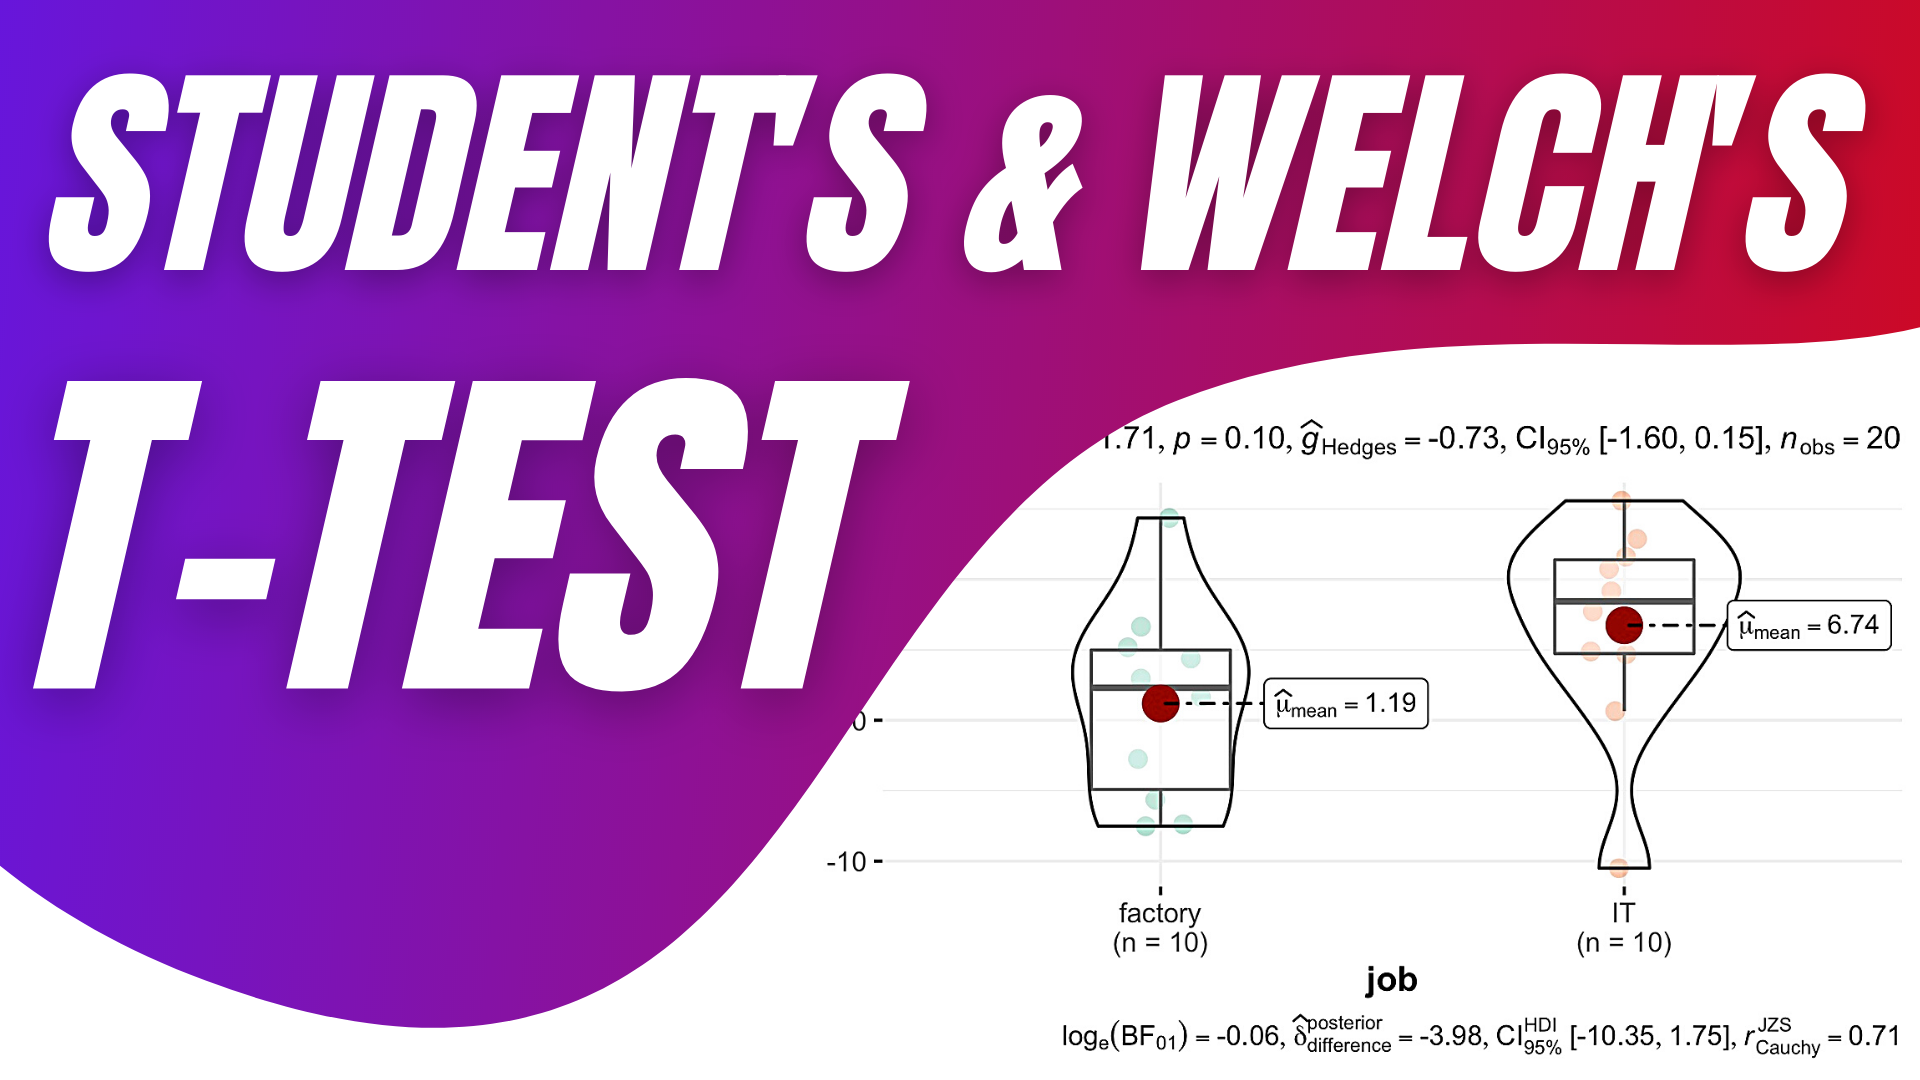
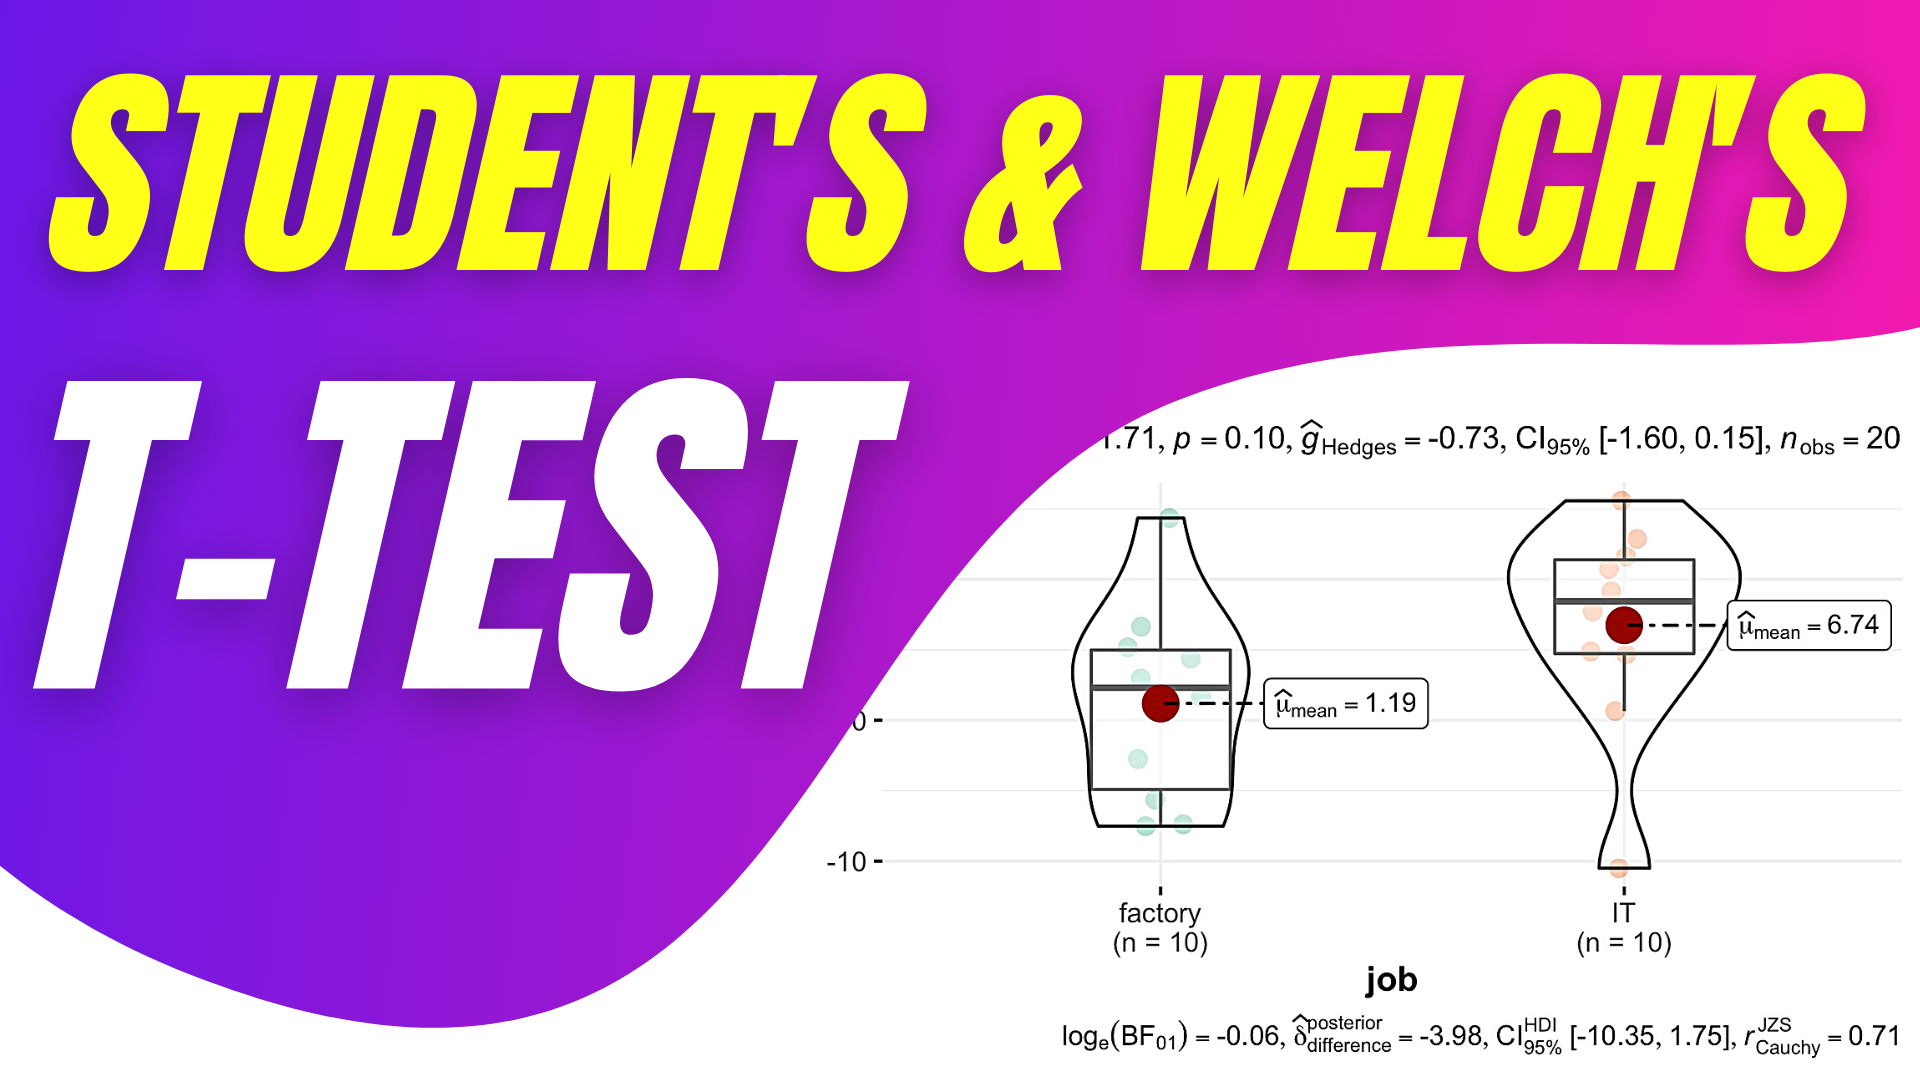
thumbnail update ttest

diff --git a/_posts/2022-03-11-ttest/ttest.html b/_posts/2022-03-11-ttest/ttest.html
@@ -118,7 +118,7 @@ code span.wa { color: #5e5e5e; font-style: italic; } /* Warning */
   <!--/radix_placeholder_rmarkdown_metadata-->
   
   <script type="text/json" id="radix-resource-manifest">
-  {"type":"character","attributes":{},"value":["bf_interpretation.png","effect_size_hedges_d.png","homogen_t_test.jpg","huge_variance.jpg","interpretation.png","man-person-people-emotions.jpg","mann_whitney_test.jpg","mwu_test.jpg","not_normal.png","p_value_interpretation.png","paired_t_test.jpg","small_variance.jpg","t_test.jpg","t_test2.jpg","t_test20.jpg","thumbnail.png","ttest_files/anchor-4.2.2/anchor.min.js","ttest_files/bowser-1.9.3/bowser.min.js","ttest_files/distill-2.2.21/template.v2.js","ttest_files/figure-html5/unnamed-chunk-10-1.png","ttest_files/figure-html5/unnamed-chunk-11-1.png","ttest_files/figure-html5/unnamed-chunk-12-1.png","ttest_files/figure-html5/unnamed-chunk-5-1.png","ttest_files/figure-html5/unnamed-chunk-6-1.png","ttest_files/figure-html5/unnamed-chunk-7-1.png","ttest_files/figure-html5/unnamed-chunk-8-1.png","ttest_files/figure-html5/unnamed-chunk-9-1.png","ttest_files/header-attrs-2.11/header-attrs.js","ttest_files/jquery-3.6.0/jquery-3.6.0.js","ttest_files/jquery-3.6.0/jquery-3.6.0.min.js","ttest_files/jquery-3.6.0/jquery-3.6.0.min.map","ttest_files/popper-2.6.0/popper.min.js","ttest_files/tippy-6.2.7/tippy-bundle.umd.min.js","ttest_files/tippy-6.2.7/tippy-light-border.css","ttest_files/tippy-6.2.7/tippy.css","ttest_files/tippy-6.2.7/tippy.umd.min.js","ttest_files/vembedr-0.1.4/css/vembedr.css","ttest_files/webcomponents-2.0.0/webcomponents.js","type_1_errors.png","type_2_errors.png"]}
+  {"type":"character","attributes":{},"value":["bf_interpretation.png","effect_size_hedges_d.png","homogen_t_test.jpg","huge_variance.jpg","interpretation.png","man-person-people-emotions.jpg","mann_whitney_test.jpg","mwu_test.jpg","not_normal.png","p_value_interpretation.png","paired_t_test.jpg","small_variance.jpg","t_test.jpg","t_test2.jpg","t_test20.jpg","thumbnail.png","thumbnail2.png","ttest_files/anchor-4.2.2/anchor.min.js","ttest_files/bowser-1.9.3/bowser.min.js","ttest_files/distill-2.2.21/template.v2.js","ttest_files/figure-html5/unnamed-chunk-10-1.png","ttest_files/figure-html5/unnamed-chunk-11-1.png","ttest_files/figure-html5/unnamed-chunk-12-1.png","ttest_files/figure-html5/unnamed-chunk-5-1.png","ttest_files/figure-html5/unnamed-chunk-6-1.png","ttest_files/figure-html5/unnamed-chunk-7-1.png","ttest_files/figure-html5/unnamed-chunk-8-1.png","ttest_files/figure-html5/unnamed-chunk-9-1.png","ttest_files/header-attrs-2.11/header-attrs.js","ttest_files/jquery-3.6.0/jquery-3.6.0.js","ttest_files/jquery-3.6.0/jquery-3.6.0.min.js","ttest_files/jquery-3.6.0/jquery-3.6.0.min.map","ttest_files/popper-2.6.0/popper.min.js","ttest_files/tippy-6.2.7/tippy-bundle.umd.min.js","ttest_files/tippy-6.2.7/tippy-light-border.css","ttest_files/tippy-6.2.7/tippy.css","ttest_files/tippy-6.2.7/tippy.umd.min.js","ttest_files/vembedr-0.1.4/css/vembedr.css","ttest_files/webcomponents-2.0.0/webcomponents.js","type_1_errors.png","type_2_errors.png"]}
   </script>
   <!--radix_placeholder_navigation_in_header-->
   <!--/radix_placeholder_navigation_in_header-->

diff --git a/_site/posts/2022-03-11-ttest/index.html b/_site/posts/2022-03-11-ttest/index.html
@@ -137,7 +137,7 @@ code span.wa { color: #5e5e5e; font-style: italic; } /* Warning */
 <!--/radix_placeholder_rmarkdown_metadata-->
   
   <script type="text/json" id="radix-resource-manifest">
-  {"type":"character","attributes":{},"value":["bf_interpretation.png","effect_size_hedges_d.png","homogen_t_test.jpg","huge_variance.jpg","interpretation.png","man-person-people-emotions.jpg","mann_whitney_test.jpg","mwu_test.jpg","not_normal.png","p_value_interpretation.png","paired_t_test.jpg","small_variance.jpg","t_test.jpg","t_test2.jpg","t_test20.jpg","thumbnail.png","ttest_files/anchor-4.2.2/anchor.min.js","ttest_files/bowser-1.9.3/bowser.min.js","ttest_files/distill-2.2.21/template.v2.js","ttest_files/figure-html5/unnamed-chunk-10-1.png","ttest_files/figure-html5/unnamed-chunk-11-1.png","ttest_files/figure-html5/unnamed-chunk-12-1.png","ttest_files/figure-html5/unnamed-chunk-5-1.png","ttest_files/figure-html5/unnamed-chunk-6-1.png","ttest_files/figure-html5/unnamed-chunk-7-1.png","ttest_files/figure-html5/unnamed-chunk-8-1.png","ttest_files/figure-html5/unnamed-chunk-9-1.png","ttest_files/header-attrs-2.11/header-attrs.js","ttest_files/jquery-3.6.0/jquery-3.6.0.js","ttest_files/jquery-3.6.0/jquery-3.6.0.min.js","ttest_files/jquery-3.6.0/jquery-3.6.0.min.map","ttest_files/popper-2.6.0/popper.min.js","ttest_files/tippy-6.2.7/tippy-bundle.umd.min.js","ttest_files/tippy-6.2.7/tippy-light-border.css","ttest_files/tippy-6.2.7/tippy.css","ttest_files/tippy-6.2.7/tippy.umd.min.js","ttest_files/vembedr-0.1.4/css/vembedr.css","ttest_files/webcomponents-2.0.0/webcomponents.js","type_1_errors.png","type_2_errors.png"]}
+  {"type":"character","attributes":{},"value":["bf_interpretation.png","effect_size_hedges_d.png","homogen_t_test.jpg","huge_variance.jpg","interpretation.png","man-person-people-emotions.jpg","mann_whitney_test.jpg","mwu_test.jpg","not_normal.png","p_value_interpretation.png","paired_t_test.jpg","small_variance.jpg","t_test.jpg","t_test2.jpg","t_test20.jpg","thumbnail.png","thumbnail2.png","ttest_files/anchor-4.2.2/anchor.min.js","ttest_files/bowser-1.9.3/bowser.min.js","ttest_files/distill-2.2.21/template.v2.js","ttest_files/figure-html5/unnamed-chunk-10-1.png","ttest_files/figure-html5/unnamed-chunk-11-1.png","ttest_files/figure-html5/unnamed-chunk-12-1.png","ttest_files/figure-html5/unnamed-chunk-5-1.png","ttest_files/figure-html5/unnamed-chunk-6-1.png","ttest_files/figure-html5/unnamed-chunk-7-1.png","ttest_files/figure-html5/unnamed-chunk-8-1.png","ttest_files/figure-html5/unnamed-chunk-9-1.png","ttest_files/header-attrs-2.11/header-attrs.js","ttest_files/jquery-3.6.0/jquery-3.6.0.js","ttest_files/jquery-3.6.0/jquery-3.6.0.min.js","ttest_files/jquery-3.6.0/jquery-3.6.0.min.map","ttest_files/popper-2.6.0/popper.min.js","ttest_files/tippy-6.2.7/tippy-bundle.umd.min.js","ttest_files/tippy-6.2.7/tippy-light-border.css","ttest_files/tippy-6.2.7/tippy.css","ttest_files/tippy-6.2.7/tippy.umd.min.js","ttest_files/vembedr-0.1.4/css/vembedr.css","ttest_files/webcomponents-2.0.0/webcomponents.js","type_1_errors.png","type_2_errors.png"]}
   </script>
   <!--radix_placeholder_navigation_in_header-->
 <meta name="distill:offset" content="../.."/>
